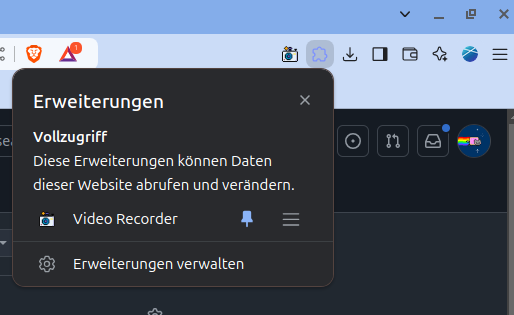
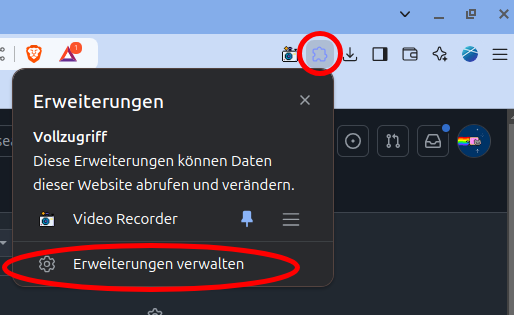
Made images of Readme a bit clearer

Changed region(s): [[0.0, 0.7714, 0.5914, 0.9429], [0.5603, 0.0857, 0.6848, 0.2571]]

diff --git a/README.md b/README.md
@@ -9,4 +9,4 @@
 ![alt text](img/Readme3.png) <br/>
 4. Select the repository folder and click add. <br/>
 5. Done. The Extension should appear here, as shown. <br/>
-![alt text](img/Readme1.png) <br/>
+![alt text](img/Readme4.png) <br/>
